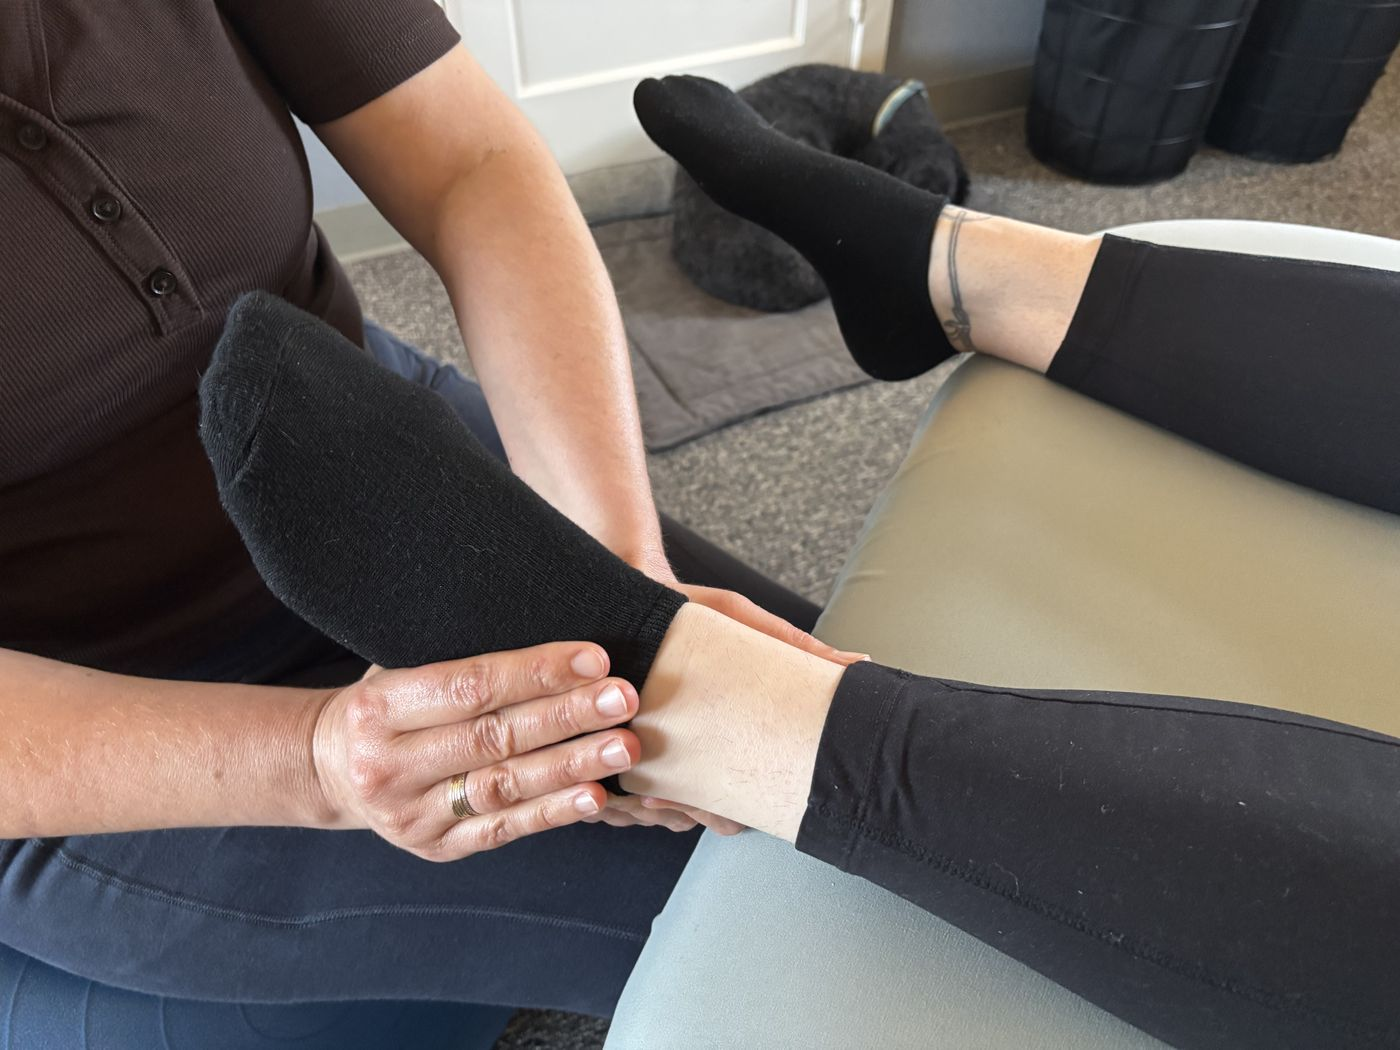
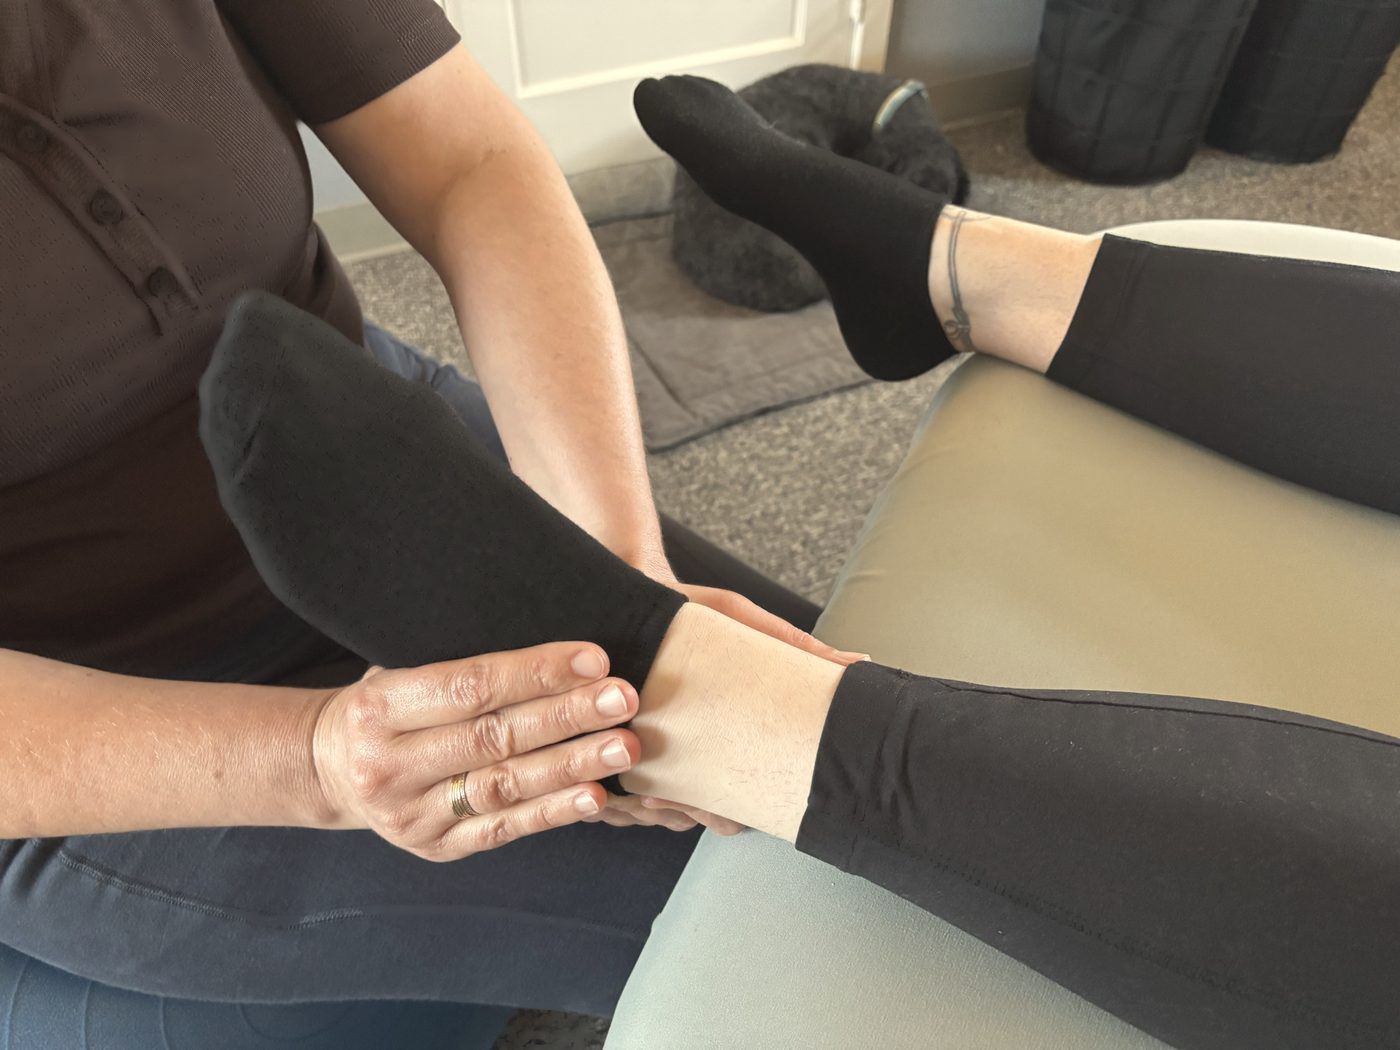
Contact photo gets its own spot beside the card, zoomed portrait, lint-free warm hands photo, soft warm overlay on photo blocks

diff --git a/index.html b/index.html
@@ -151,10 +151,15 @@
   /* real photos (Sep 28 shoot) */
   .hero-band.has-photo { background: linear-gradient(rgba(40,32,26,0.50), rgba(40,32,26,0.62)), url('images/hero.jpg') center 38% / cover no-repeat; }
   .band.photo-process { background: linear-gradient(rgba(40,32,26,0.55), rgba(40,32,26,0.62)), url('images/process.jpg') center bottom / cover no-repeat; }
-  .band.photo-contact { background: linear-gradient(rgba(40,32,26,0.50), rgba(40,32,26,0.60)), url('images/contact.jpg') center 45% / cover no-repeat; }
+  .band.contact-split .contact-layout { display: grid; grid-template-columns: 0.9fr 1.1fr; gap: 26px; max-width: 1120px; margin: 0 auto; align-items: stretch; }
+  .band.contact-split .float-card { max-width: none; margin: 0; }
+  .contact-photo { margin: 0; border-radius: 30px; overflow: hidden; min-height: 340px; box-shadow: 0 30px 80px rgba(20, 12, 5, 0.35); }
+  .contact-photo img { width: 100%; height: 100%; object-fit: cover; object-position: 38% 50%; display: block; }
+  @media (max-width: 820px) { .band.contact-split .contact-layout { grid-template-columns: 1fr; } .contact-photo { min-height: 0; aspect-ratio: 4 / 3; } }
   .rate a { color: var(--olive-deep); font-weight: 600; }
   .photo-block img { position: absolute; inset: 0; width: 100%; height: 100%; object-fit: cover; }
-  .portrait-mini { width: 96px; height: 96px; border-radius: 50%; object-fit: cover; object-position: 50% 22%; float: right; margin: 0 0 12px 18px; border: 3px solid var(--blush); }
+  .photo-block::after { content: ""; position: absolute; inset: 0; pointer-events: none; background: linear-gradient(180deg, rgba(243,229,213,0.12), rgba(107,93,42,0.10)); }
+  .portrait-mini { width: 118px; height: 118px; border-radius: 50%; object-fit: cover; object-position: 50% 45%; float: right; margin: 0 0 12px 18px; border: 3px solid var(--blush); }
   .photo-block figcaption {
     position: relative; z-index: 1; margin-bottom: 18px;
     font-size: 10.5px; letter-spacing: 0.2em; text-transform: uppercase; font-weight: 600;
@@ -515,8 +520,10 @@
   </div>
 </section>
 
-<div class="band photo-contact" id="contact">
+<div class="band contact-split" id="contact">
   <div class="gutter">
+    <div class="contact-layout">
+    <figure class="contact-photo reveal"><img src="images/contact.jpg" alt="Juliet working gently on a client's leg during a MAT session" loading="lazy"></figure>
     <div class="float-card reveal">
       <p class="kicker">Contact</p>
       <img class="portrait-mini" src="images/portrait.jpg" alt="Juliet O'Barr, smiling" loading="lazy">
@@ -550,6 +557,7 @@
           so Juliet can hear what brings you in.</span>
       </div>
     </div>
+  </div>
   </div>
 </div>
 
